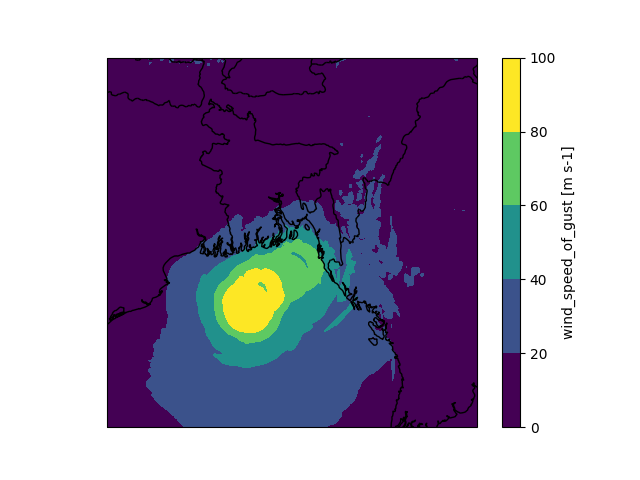
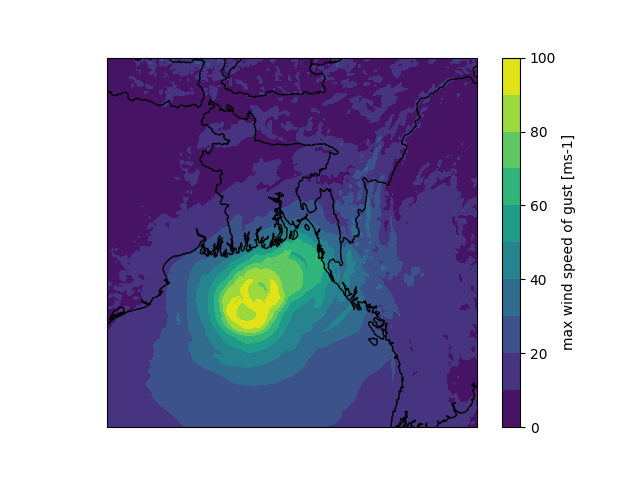
change from xarray.plot to plt plot to change colorbar label

diff --git a/visualising_ensemble_data/average_variance_across_ensembles/average_variance_across_ensembles_netcdf.py b/visualising_ensemble_data/average_variance_across_ensembles/average_variance_across_ensembles_netcdf.py
@@ -36,8 +36,6 @@ ensemble_member_8 = (data.forecast_period[firstMember - 3 * 8], data.forecast_re
 ensemble_members = [ensemble_member_0, ensemble_member_1, ensemble_member_2, ensemble_member_3, ensemble_member_4, ensemble_member_5, ensemble_member_6, ensemble_member_7, ensemble_member_8]
 
 
-
-
 #Plot 9 ensemble members at same time stamp
 plt.figure(figsize=(12,12))
 for index, ensemble_member in enumerate(ensemble_members):
@@ -57,28 +55,35 @@ plt.show()
 plt.figure(figsize=(6.4,4.8))
 
 
-#initialise stdev and max holders
-stddev_holder = data.loc[dict(forecast_period = ensemble_member_0[0], forecast_reference_time = ensemble_member_0[1], latitude=slice(lower_lat, upper_lat), longitude=slice(lower_lon, upper_lon))]['wind_speed_of_gust']
-max_holder = data.loc[dict(forecast_period = ensemble_member_0[0], forecast_reference_time = ensemble_member_0[1], latitude=slice(lower_lat, upper_lat), longitude=slice(lower_lon, upper_lon))]['wind_speed_of_gust']
-for idx, ensemble_member in enumerate(ensemble_members):
-    stddev_holder.values[idx] = -1
-    max_holder.values[idx] = -1
-
+# #initialise stdev and max holders (xarray.plot way)
+# stddev_holder = data.loc[dict(forecast_period = ensemble_member_0[0], forecast_reference_time = ensemble_member_0[1], latitude=slice(lower_lat, upper_lat), longitude=slice(lower_lon, upper_lon))]['wind_speed_of_gust']
+# max_holder = data.loc[dict(forecast_period = ensemble_member_0[0], forecast_reference_time = ensemble_member_0[1], latitude=slice(lower_lat, upper_lat), longitude=slice(lower_lon, upper_lon))]['wind_speed_of_gust']
+# for idx, ensemble_member in enumerate(ensemble_members):
+#     stddev_holder.values[idx] = -1
+#     max_holder.values[idx] = -1
 
 #collect all 9 ensemble members cut to specified size
 cut_to_size = [] #array of the whole data for the 9 ensembles. I.e. cut_to_size[0] is all of ensemble member 0
 for index, ensemble_member in enumerate(ensemble_members):
-    # print(index, ensemble_member)
     cut_to_size.append(data.loc[dict(forecast_period = ensemble_member[0], forecast_reference_time = ensemble_member[1], latitude=slice(lower_lat, upper_lat), longitude=slice(lower_lon, upper_lon))]['wind_speed_of_gust'])
+
+
+#set up arrays used in plt plot
+lats = cut_to_size[0].latitude
+lons = cut_to_size[0].longitude
+stdev_values = np.empty((len(lons.values),len(lats.values)))
+max_values = np.empty((len(lons.values),len(lats.values)))
 
 
 #calculate standard deviation and max for each cell. Looking at all 9 ensemble members for each cell
 for ii in range(np.size(cut_to_size[0].values[:][0])):
     print(f'{ii+1}/{np.size(cut_to_size[0].values[0][:])}')
     for jj in range(np.size(cut_to_size[0].values[0][:])):
-        stddev_holder.values[ii][jj] = np.std([cut_to_size[0].values[ii][jj], cut_to_size[1].values[ii][jj], cut_to_size[2].values[ii][jj], cut_to_size[3].values[ii][jj], cut_to_size[4].values[ii][jj], cut_to_size[5].values[ii][jj], cut_to_size[6].values[ii][jj], cut_to_size[7].values[ii][jj], cut_to_size[8].values[ii][jj]])
-        max_holder.values[ii][jj] = np.max([cut_to_size[0].values[ii][jj], cut_to_size[1].values[ii][jj], cut_to_size[2].values[ii][jj], cut_to_size[3].values[ii][jj], cut_to_size[4].values[ii][jj], cut_to_size[5].values[ii][jj], cut_to_size[6].values[ii][jj], cut_to_size[7].values[ii][jj], cut_to_size[8].values[ii][jj]])
-    
+        # stddev_holder.values[ii][jj] = np.std([cut_to_size[0].values[ii][jj], cut_to_size[1].values[ii][jj], cut_to_size[2].values[ii][jj], cut_to_size[3].values[ii][jj], cut_to_size[4].values[ii][jj], cut_to_size[5].values[ii][jj], cut_to_size[6].values[ii][jj], cut_to_size[7].values[ii][jj], cut_to_size[8].values[ii][jj]])
+        stdev_values[ii][jj] = np.std([cut_to_size[0].values[ii][jj], cut_to_size[1].values[ii][jj], cut_to_size[2].values[ii][jj], cut_to_size[3].values[ii][jj], cut_to_size[4].values[ii][jj], cut_to_size[5].values[ii][jj], cut_to_size[6].values[ii][jj], cut_to_size[7].values[ii][jj], cut_to_size[8].values[ii][jj]])
+
+        # max_holder.values[ii][jj] = np.max([cut_to_size[0].values[ii][jj], cut_to_size[1].values[ii][jj], cut_to_size[2].values[ii][jj], cut_to_size[3].values[ii][jj], cut_to_size[4].values[ii][jj], cut_to_size[5].values[ii][jj], cut_to_size[6].values[ii][jj], cut_to_size[7].values[ii][jj], cut_to_size[8].values[ii][jj]])
+        max_values[ii][jj] = np.max([cut_to_size[0].values[ii][jj], cut_to_size[1].values[ii][jj], cut_to_size[2].values[ii][jj], cut_to_size[3].values[ii][jj], cut_to_size[4].values[ii][jj], cut_to_size[5].values[ii][jj], cut_to_size[6].values[ii][jj], cut_to_size[7].values[ii][jj], cut_to_size[8].values[ii][jj]])
 
 
 #plot max
@@ -86,8 +91,8 @@ ax = plt.subplot(1,1,1, projection=ccrs.PlateCarree((lower_lon+upper_lon)/2))
 ax.coastlines()
 ax.add_feature(cfeature.BORDERS)
 # cut_to_size[0].plot.contourf(ax=ax, transform=ccrs.PlateCarree())
-max_holder.plot.contourf(ax=ax, transform=ccrs.PlateCarree())
-plt.title('')
+plt.contourf(lons,lats, max_values, transform=ccrs.PlateCarree(),levels=np.linspace(0,100,11))
+plt.colorbar(label='max wind speed of gust [ms-1]')
 plt.ylabel('wind speed of gust [ms-1]')
 plt.xlabel('wind speed of gust [ms-1]')
 plt.savefig('max.png', transparent=True)
@@ -98,9 +103,8 @@ ax = plt.subplot(1,1,1, projection=ccrs.PlateCarree((lower_lon+upper_lon)/2))
 ax.coastlines()
 ax.add_feature(cfeature.BORDERS)
 # cut_to_size[0].plot.contourf(ax=ax, transform=ccrs.PlateCarree())
-stddev_holder.plot.contourf(ax=ax, transform=ccrs.PlateCarree())
-
-plt.title('')
-# plt.ylabel('wind speed of gust [ms-1]')
-# plt.xlabel('wind speed of gust [ms-1]') #not working
+plt.contourf(lons,lats, stdev_values, transform=ccrs.PlateCarree(), levels=np.linspace(0,40,11))
+plt.colorbar(label='standard deviation [ms-1]')
+plt.ylabel('wind speed of gust [ms-1]')
+plt.xlabel('wind speed of gust [ms-1]')
 plt.savefig('stdev.png', transparent=True)
